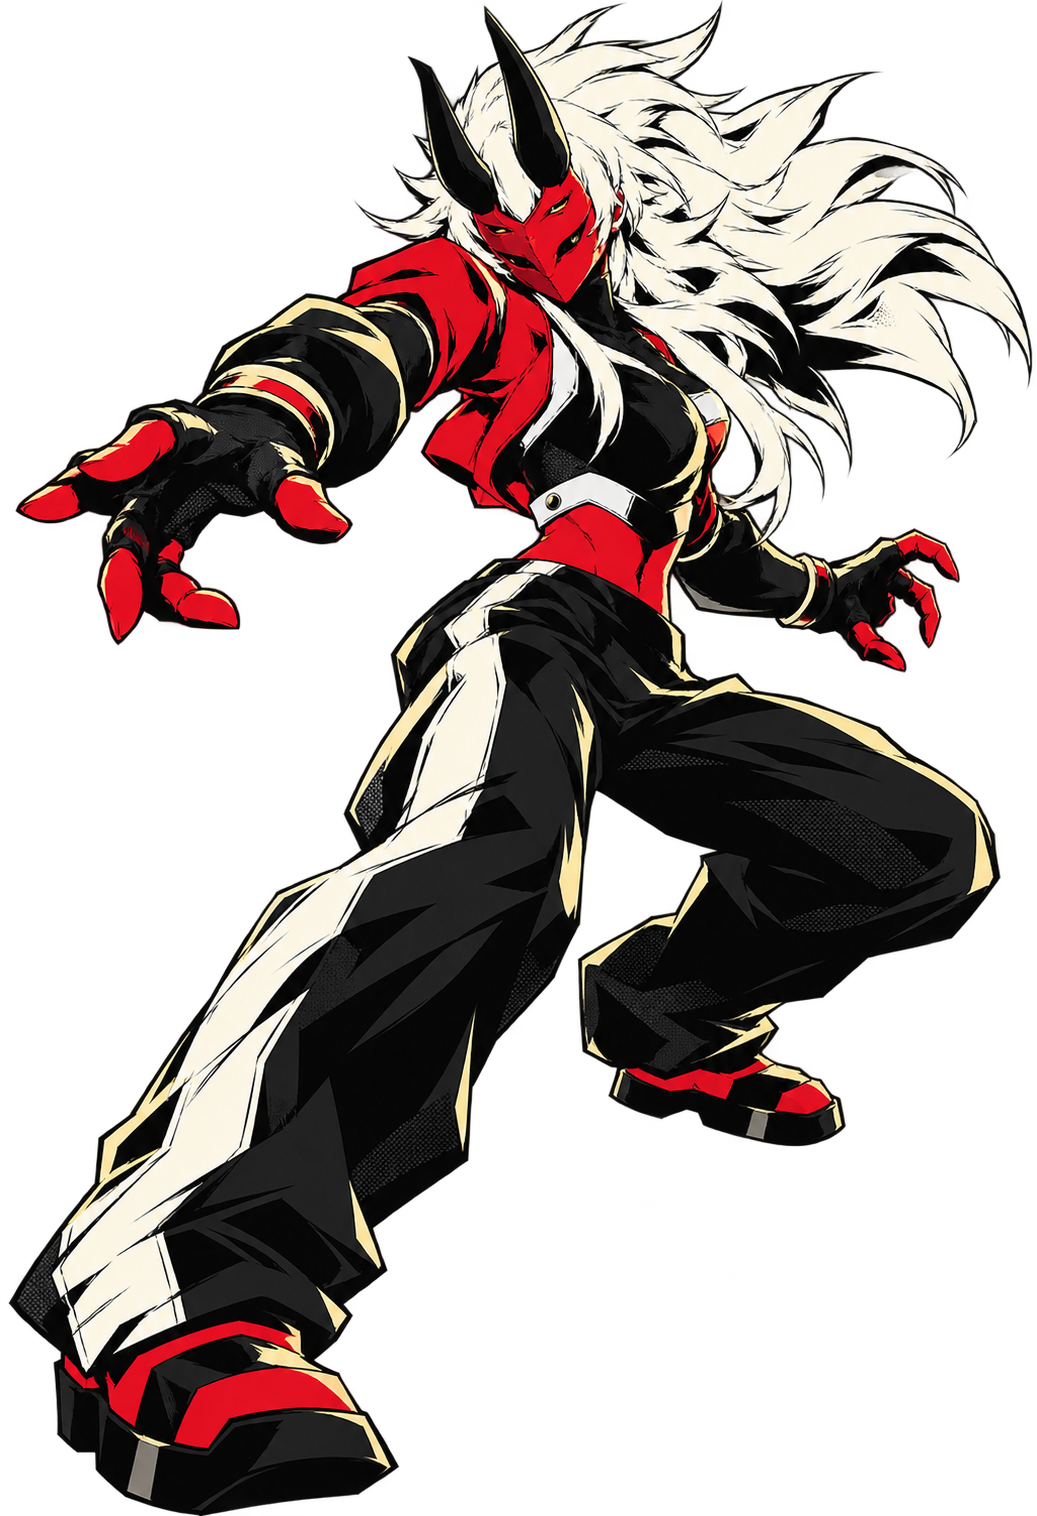
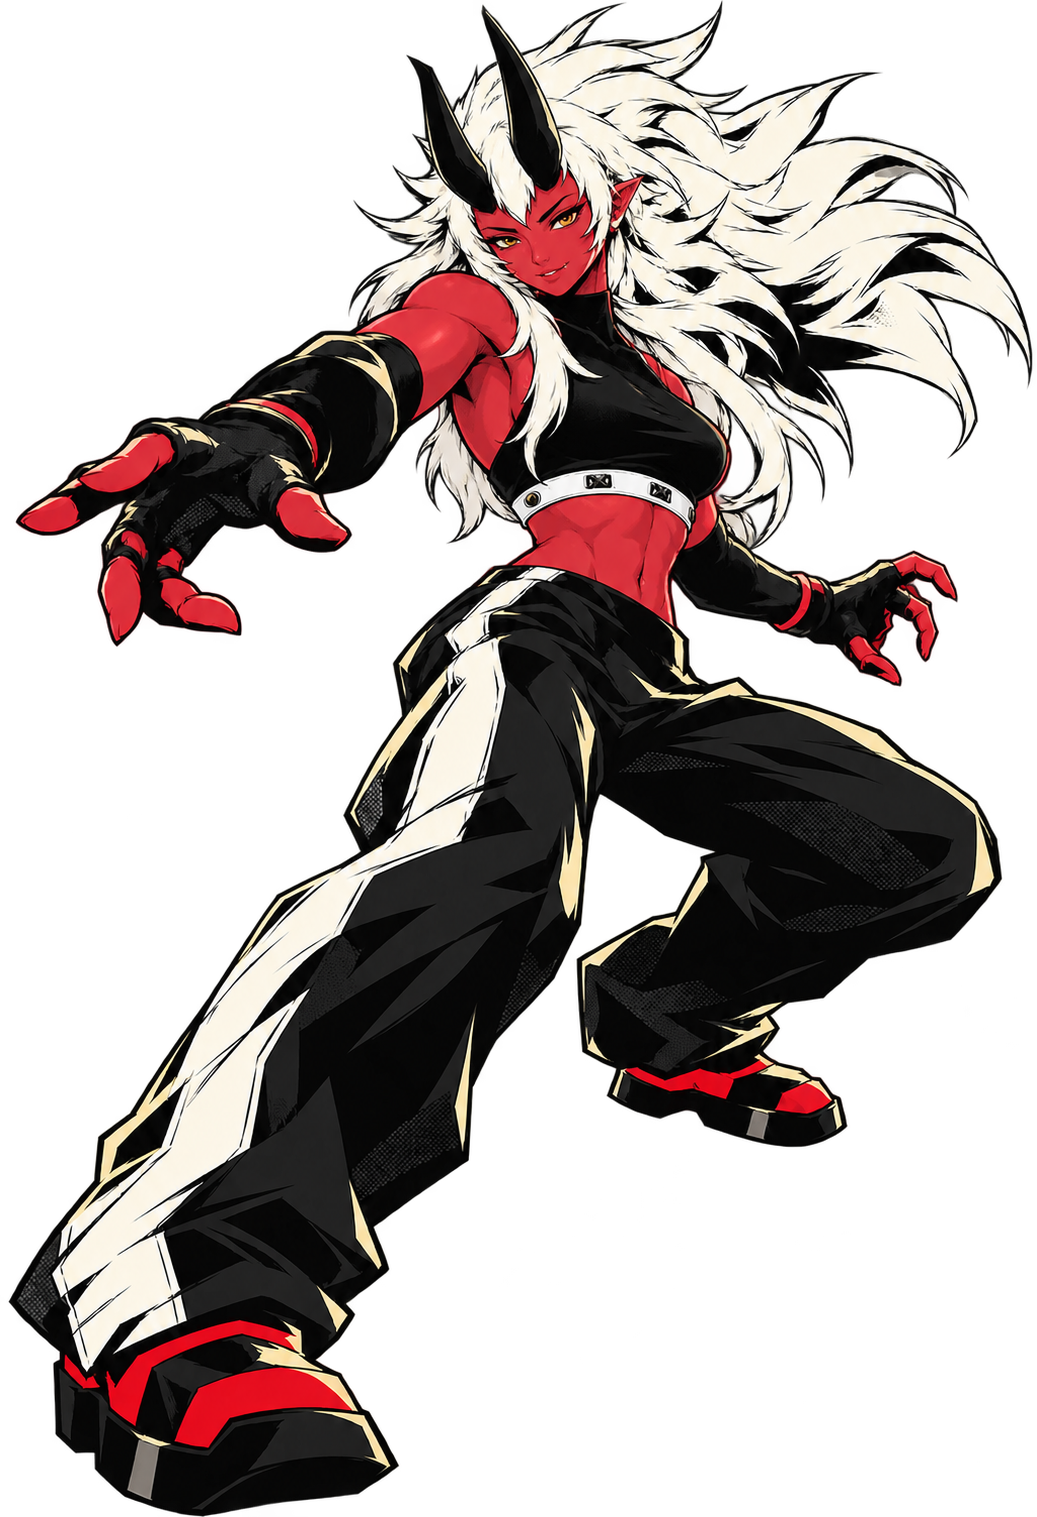
Onini's ultimate cut-in art and corrected menu portrait
A banner for Onini's ultimate cut-in with red-orange streaks, a fixed
menu portrait, and the editor tools that import them and check the
presentation.

diff --git a/Tools/CheckOniniPresentation.cs b/Tools/CheckOniniPresentation.cs
@@ -1,0 +1,47 @@
+using System;
+using System.Collections;
+using System.IO;
+using System.Reflection;
+using UnityEngine;
+using UnityEngine.SceneManagement;
+using UnityEngine.UI;
+public static class CheckOniniPresentation
+{
+    public static string Run()
+    {
+        if(!Application.isPlaying)throw new Exception("Play Mode required");
+        var p=new GameObject("OniniPresentationProbe").AddComponent<OniniPresentationProbe>();
+        UnityEngine.Object.DontDestroyOnLoad(p);return "Started Onini presentation verification";
+    }
+}
+public class OniniPresentationProbe:MonoBehaviour
+{
+    const BindingFlags F=BindingFlags.Instance|BindingFlags.NonPublic|BindingFlags.Public;
+    int errors;
+    void Check(bool ok,string why){if(!ok)throw new Exception(why);}
+    void Error(string m,string s,LogType t){if(t==LogType.Error||t==LogType.Exception){errors++;File.AppendAllText("Tools/onini_presentation_test.txt",m+"\n");}}
+    IEnumerator Start()
+    {
+        File.WriteAllText("Tools/onini_presentation_test.txt","RUNNING\n");Application.logMessageReceived+=Error;Application.runInBackground=true;
+        Locomotives.Select(2);Locomotives.StoryMode=false;
+        SceneManager.LoadScene("MainMenu");yield return new WaitForSecondsRealtime(.8f);
+        var menu=UnityEngine.Object.FindAnyObjectByType<MainMenu>();Check(menu,"Main menu missing");
+        var portrait=Resources.Load<Texture2D>("Menu/hero_onini_cut");Check(portrait,"Menu portrait missing");
+        ((RawImage)typeof(MainMenu).GetField("heroArt",F).GetValue(menu)).texture=portrait;
+        ((RawImage)typeof(MainMenu).GetField("heroShade",F).GetValue(menu)).texture=portrait;
+        ((Text)typeof(MainMenu).GetField("heroName",F).GetValue(menu)).text="ONINI";UiKit.SetHeroTones("onini");
+        yield return new WaitForSecondsRealtime(.8f);ScreenCapture.CaptureScreenshot("Tools/onini_art_trials/face_fix/menu_after.png");yield return new WaitForSecondsRealtime(.2f);
+        SceneManager.LoadScene("sandScenario");yield return new WaitForSecondsRealtime(.8f);
+        var cut=UnityEngine.Object.FindAnyObjectByType<UltimateCutIn>();Check(cut,"Ultimate presentation missing");
+        float original=Time.timeScale;bool done=false;cut.Play(()=>done=true);Check(cut.Active&&Time.timeScale==0f,"Ultimate did not freeze world");
+        yield return new WaitForSecondsRealtime(.3f);
+        var picture=(RawImage)typeof(UltimateCutIn).GetField("picture",F).GetValue(cut);
+        Check(picture.texture&&picture.texture.name=="onini_cut_in","Wrong Ultimate image");
+        var streaks=(UltimateStreaks)typeof(UltimateCutIn).GetField("streaks",F).GetValue(cut);
+        Check(streaks.powerColor.r>.9f&&streaks.powerColor.g<.3f,"Wrong Onini effect color");
+        ScreenCapture.CaptureScreenshot("Tools/onini_art_trials/face_fix/ultimate_ingame.png");
+        yield return new WaitForSecondsRealtime(1f);Check(done&&!cut.Active&&Time.timeScale==original,"Ultimate did not finish and restore time");
+        Check(errors==0,"Runtime errors during test");File.AppendAllText("Tools/onini_presentation_test.txt","PASS menu portrait, Onini Ultimate texture and red-orange effects; freeze, callback and time restoration; errors=0\n");Destroy(gameObject);
+    }
+    void OnDestroy(){Application.logMessageReceived-=Error;}
+}

diff --git a/Tools/CaptureUltimateReferences.cs b/Tools/CaptureUltimateReferences.cs
@@ -8,6 +8,7 @@ public static class CaptureUltimateReferences
 {
     public static string Run() => Capture(new[] { "cerebron", "faceless", "sentinel", "tzmil", "culu" });
     public static string Culu() => Capture(new[] { "culu" });
+    public static string Onini() => Capture(new[] { "onini" });
 
     static string Capture(string[] heroes)
     {
@@ -41,7 +42,8 @@ public static class CaptureUltimateReferences
                 foreach (var part in body.GetComponentsInChildren<Transform>()) part.gameObject.layer = 31;
                 var rig = body.GetComponent<Animator>(); if (rig) rig.enabled = false;
                 var renderers = body.GetComponentsInChildren<Renderer>();
-                var material = new Material(Shader.Find("HDRP/Lit"));
+                var material = new Material(Shader.Find(id == "onini" ? "HDRP/Unlit" : "HDRP/Lit"));
+                if (id == "onini") material.SetTexture("_UnlitColorMap", Resources.Load<Texture2D>(who));
                 material.SetTexture("_BaseColorMap", Resources.Load<Texture2D>(who));
                 material.SetColor("_BaseColor", Color.white);
                 material.SetFloat("_Smoothness", 0.2f);

diff --git a/Tools/ImportOniniFaceAndUltimate.cs b/Tools/ImportOniniFaceAndUltimate.cs
@@ -1,0 +1,21 @@
+using UnityEditor;
+using UnityEngine;
+public static class ImportOniniFaceAndUltimate
+{
+    public static string Run()
+    {
+        foreach (string path in new[]{"Assets/Resources/Ultimate/onini_cut_in.png", "Assets/Resources/Menu/hero_onini_cut.png"})
+        {
+            AssetDatabase.ImportAsset(path, ImportAssetOptions.ForceUpdate);
+            var importer=(TextureImporter)AssetImporter.GetAtPath(path);
+            importer.textureType=TextureImporterType.Default;
+            importer.mipmapEnabled=false;
+            importer.npotScale=TextureImporterNPOTScale.None;
+            importer.maxTextureSize=4096;
+            importer.wrapMode=TextureWrapMode.Clamp;
+            importer.alphaIsTransparency=path.Contains("/Menu/");
+            importer.SaveAndReimport();
+        }
+        return "Imported corrected Onini menu portrait and Ultimate banner";
+    }
+}

diff --git a/Assets/Scripts/UltimateCutIn.cs b/Assets/Scripts/UltimateCutIn.cs
@@ -30,6 +30,7 @@ public class UltimateCutIn : MonoBehaviour
             "sentinel" => new Color(1f, 0.45f, 0.05f),
             "tzmil" => new Color(1f, 0.12f, 0.65f),
             "culu" => new Color(1f, 0.85f, 0.12f),
+            "onini" => new Color(1f, 0.2f, 0.08f),
             _ => new Color(0.35f, 1f, 0.5f)
         };
         streaks.powerColor = power;
